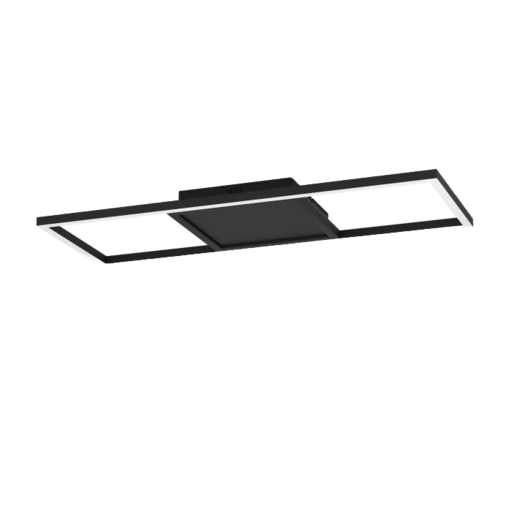
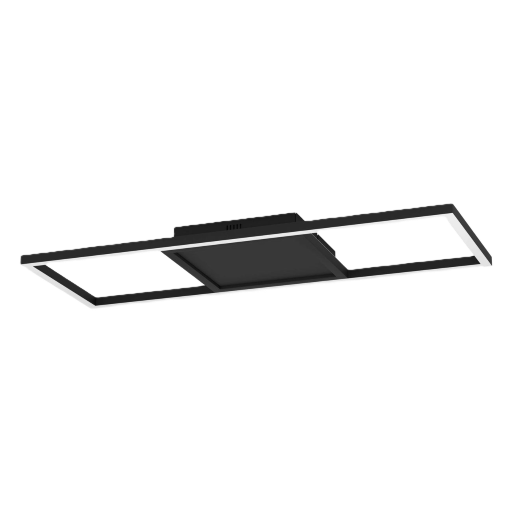
Add Eglo 901463 (#5218)

Changed region(s): [[0.0312, 0.3125, 0.9688, 0.625]]

diff --git a/docs/devices/EBF_RGB_Zm_901463.md b/docs/devices/EBF_RGB_Zm_901463.md
@@ -1,0 +1,6 @@
+---
+redirectTo: /devices/EBF_RGB_Zm.md
+---
+
+<!-- Notes BEGIN: You can edit here. Add "## Notes" headline if not already present. -->
+<!-- Notes END: Do not edit below this line -->

diff --git a/docs/devices/EBF_RGB_Zm.md b/docs/devices/EBF_RGB_Zm.md
@@ -20,7 +20,7 @@ pageClass: device-page
 | Description | LED with adjustable color temp on main ring; extra RGB strip for full colors. |
 | Exposes | light (state, brightness, color_temp, color_temp_startup, color_xy, color_hs), effect, power_on_behavior, action |
 | Picture | ![AwoX EBF_RGB_Zm](https://www.zigbee2mqtt.io/images/devices/EBF_RGB_Zm.png) |
-| White-label | EGLO 900566 |
+| White-label | EGLO 900566, EGLO 901463 |
 
 
 <!-- Notes BEGIN: You can edit here. Add "## Notes" headline if not already present. -->